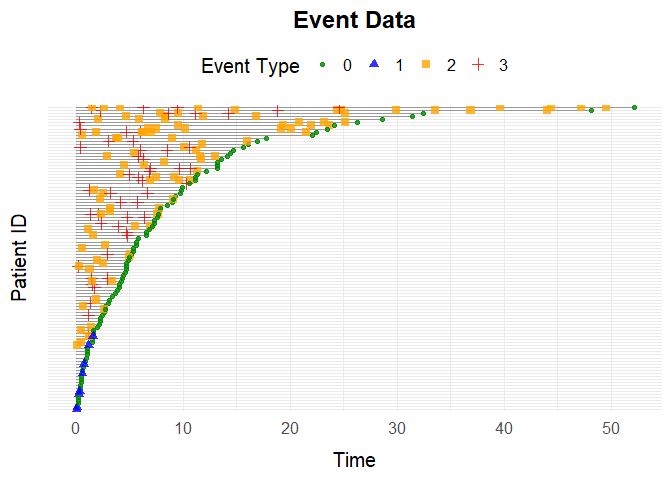
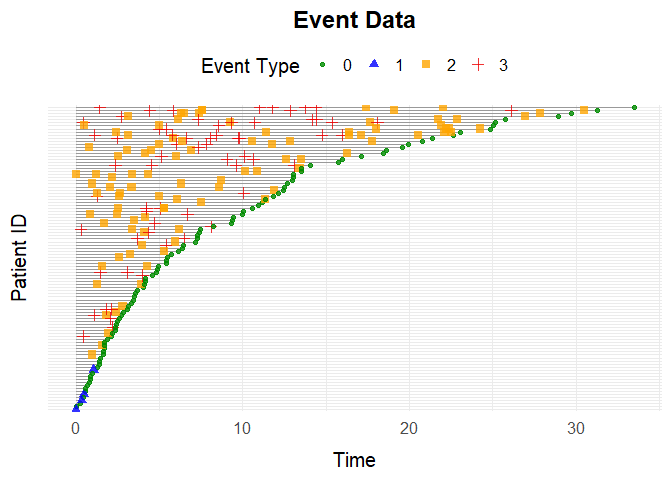
chnaging so that covariates are drawn per individual as to not destroy dependence structure between individuals.

diff --git a/README.md b/README.md
@@ -109,8 +109,8 @@ provided.
 
 | Function | Description | Key Arguments | Example |
 |----|----|----|----|
-| `simEventCox()` | Simulates new data using fitted Cox proportional hazard models | `N`, `cox_fits`, `list_old_vars` | `simEventCox(N, cox_fits, list_old_vars = list_old_vars)` |
-| `simEventObj()` | Simulates new data using a general model | `N`, `obj`, `list_old_vars` | `simEventObj(100, obj, list_old_vars = list_old_vars)` |
+| `simEventCox()` | Simulates new data using fitted Cox proportional hazard models | `N`, `cox_fits`, `old_vars` | `simEventCox(N, cox_fits, old_vars = old_vars)` |
+| `simEventObj()` | Simulates new data using a general model | `N`, `obj`, `old_vars` | `simEventObj(100, obj, old_vars = old_vars)` |
 
 **Functions for performing interventions**
 
@@ -494,8 +494,8 @@ models as arguments:
 
 ``` r
 cox_fits <- list("Process 1" = cox1, "Process 2" = cox2)
-list_old_vars <- list("L0" = data$L0, "A0" = data$A0)
-new_data <- simEventCox(100, cox_fits, list_old_vars = list_old_vars)
+old_vars <- data[,c(4,5)]
+new_data <- simEventCox(100, cox_fits, old_vars = old_vars)
 ```
 
 The new simulated data looks like:
@@ -505,12 +505,12 @@ head(new_data)
 #> Key: <ID>
 #>       ID      Time Delta        L0    A0 Process 1 Process 2
 #>    <int>     <num> <num>     <num> <num>     <num>     <num>
-#> 1:     1  2.175382     0 0.5363954     0         1         0
-#> 2:     2  7.139631     0 0.3144497     0         1         0
-#> 3:     3  2.766344     0 0.9335247     1         1         0
-#> 4:     4  3.570241     1 0.2502356     0         0         1
-#> 5:     4 12.695609     0 0.2502356     0         1         1
-#> 6:     5  5.055418     0 0.5462261     1         1         0
+#> 1:     1 0.4931728     1 0.5363954     0         0         1
+#> 2:     1 4.0046486     0 0.5363954     0         1         1
+#> 3:     2 0.6828662     1 0.3144497     0         0         1
+#> 4:     2 9.8772172     0 0.3144497     0         1         1
+#> 5:     3 0.8909987     1 0.9335247     1         0         1
+#> 6:     3 4.2916262     0 0.9335247     1         1         1
 ```
 
 ### Using `simEventObj`
@@ -541,8 +541,8 @@ Then we can call the function `simEventObj` providing the fitted Random
 Forest as argument:
 
 ``` r
-list_old_vars = list(L0 = data$L0, A0 = data$A0)
-new_data <- simEventObj(100, RF_fit, list_old_vars = list_old_vars)
+old_vars = data[, c("L0", "A0")]
+new_data <- simEventObj(100, RF_fit, old_vars = old_vars)
 ```
 
 The new simulated data looks like:
@@ -550,14 +550,14 @@ The new simulated data looks like:
 ``` r
 head(new_data)
 #> Key: <ID>
-#>       ID     Time Delta         L0    A0    N1    N2
-#>    <int>    <num> <int>      <num> <num> <num> <num>
-#> 1:     1 1.169271     1 0.40253050     1     1     0
-#> 2:     2 1.433632     2 0.80094849     0     0     1
-#> 3:     3 6.062924     2 0.03707728     0     0     1
-#> 4:     4 0.310825     1 0.84810211     1     1     0
-#> 5:     5 1.465128     2 0.99071345     1     0     1
-#> 6:     6 5.116592     2 0.98173073     1     0     1
+#>       ID      Time Delta          L0    A0    N1    N2
+#>    <int>     <num> <int>       <num> <num> <num> <num>
+#> 1:     1 9.9452423     1 0.730683018     0     1     0
+#> 2:     2 9.9452423     1 0.057044588     0     1     0
+#> 3:     3 0.5861219     1 0.006538616     1     1     0
+#> 4:     4 4.5871502     1 0.921506565     1     1     0
+#> 5:     5 1.8056792     2 0.240172203     0     0     1
+#> 6:     6 9.9452423     1 0.988296003     0     1     0
 ```
 
 ## Example 8: Interventions
@@ -569,10 +569,10 @@ intervention can be simulated by scaling with the factor 1:
 ``` r
 alphaSim(N = 10^3, alpha = 1,  tau = 5, setting = "Drop In")
 #> $effectDeath
-#> [1] 0.09393346
+#> [1] 0.09533074
 #> 
 #> $effectSetting
-#> [1] 0.6731898
+#> [1] 0.6789883
 ```
 
 By default the function returns the proportion of individuals who
@@ -596,10 +596,10 @@ sample of the event data for each scenario for comparison.
 intEffectAlpha(N = 1000, alpha = 0.7, tau = 5, years_lost = TRUE, a0 = 1, plot = TRUE,
                setting = "Drop In")
 #> $effect_2
-#> [1] 1.498911
+#> [1] 1.569689
 #> 
 #> $effect_death
-#> [1] 0.3070905
+#> [1] 0.2871026
 ```
 
 ## Example 9: Intensities dependent on time since last event with `simEventDataTdPhi`
